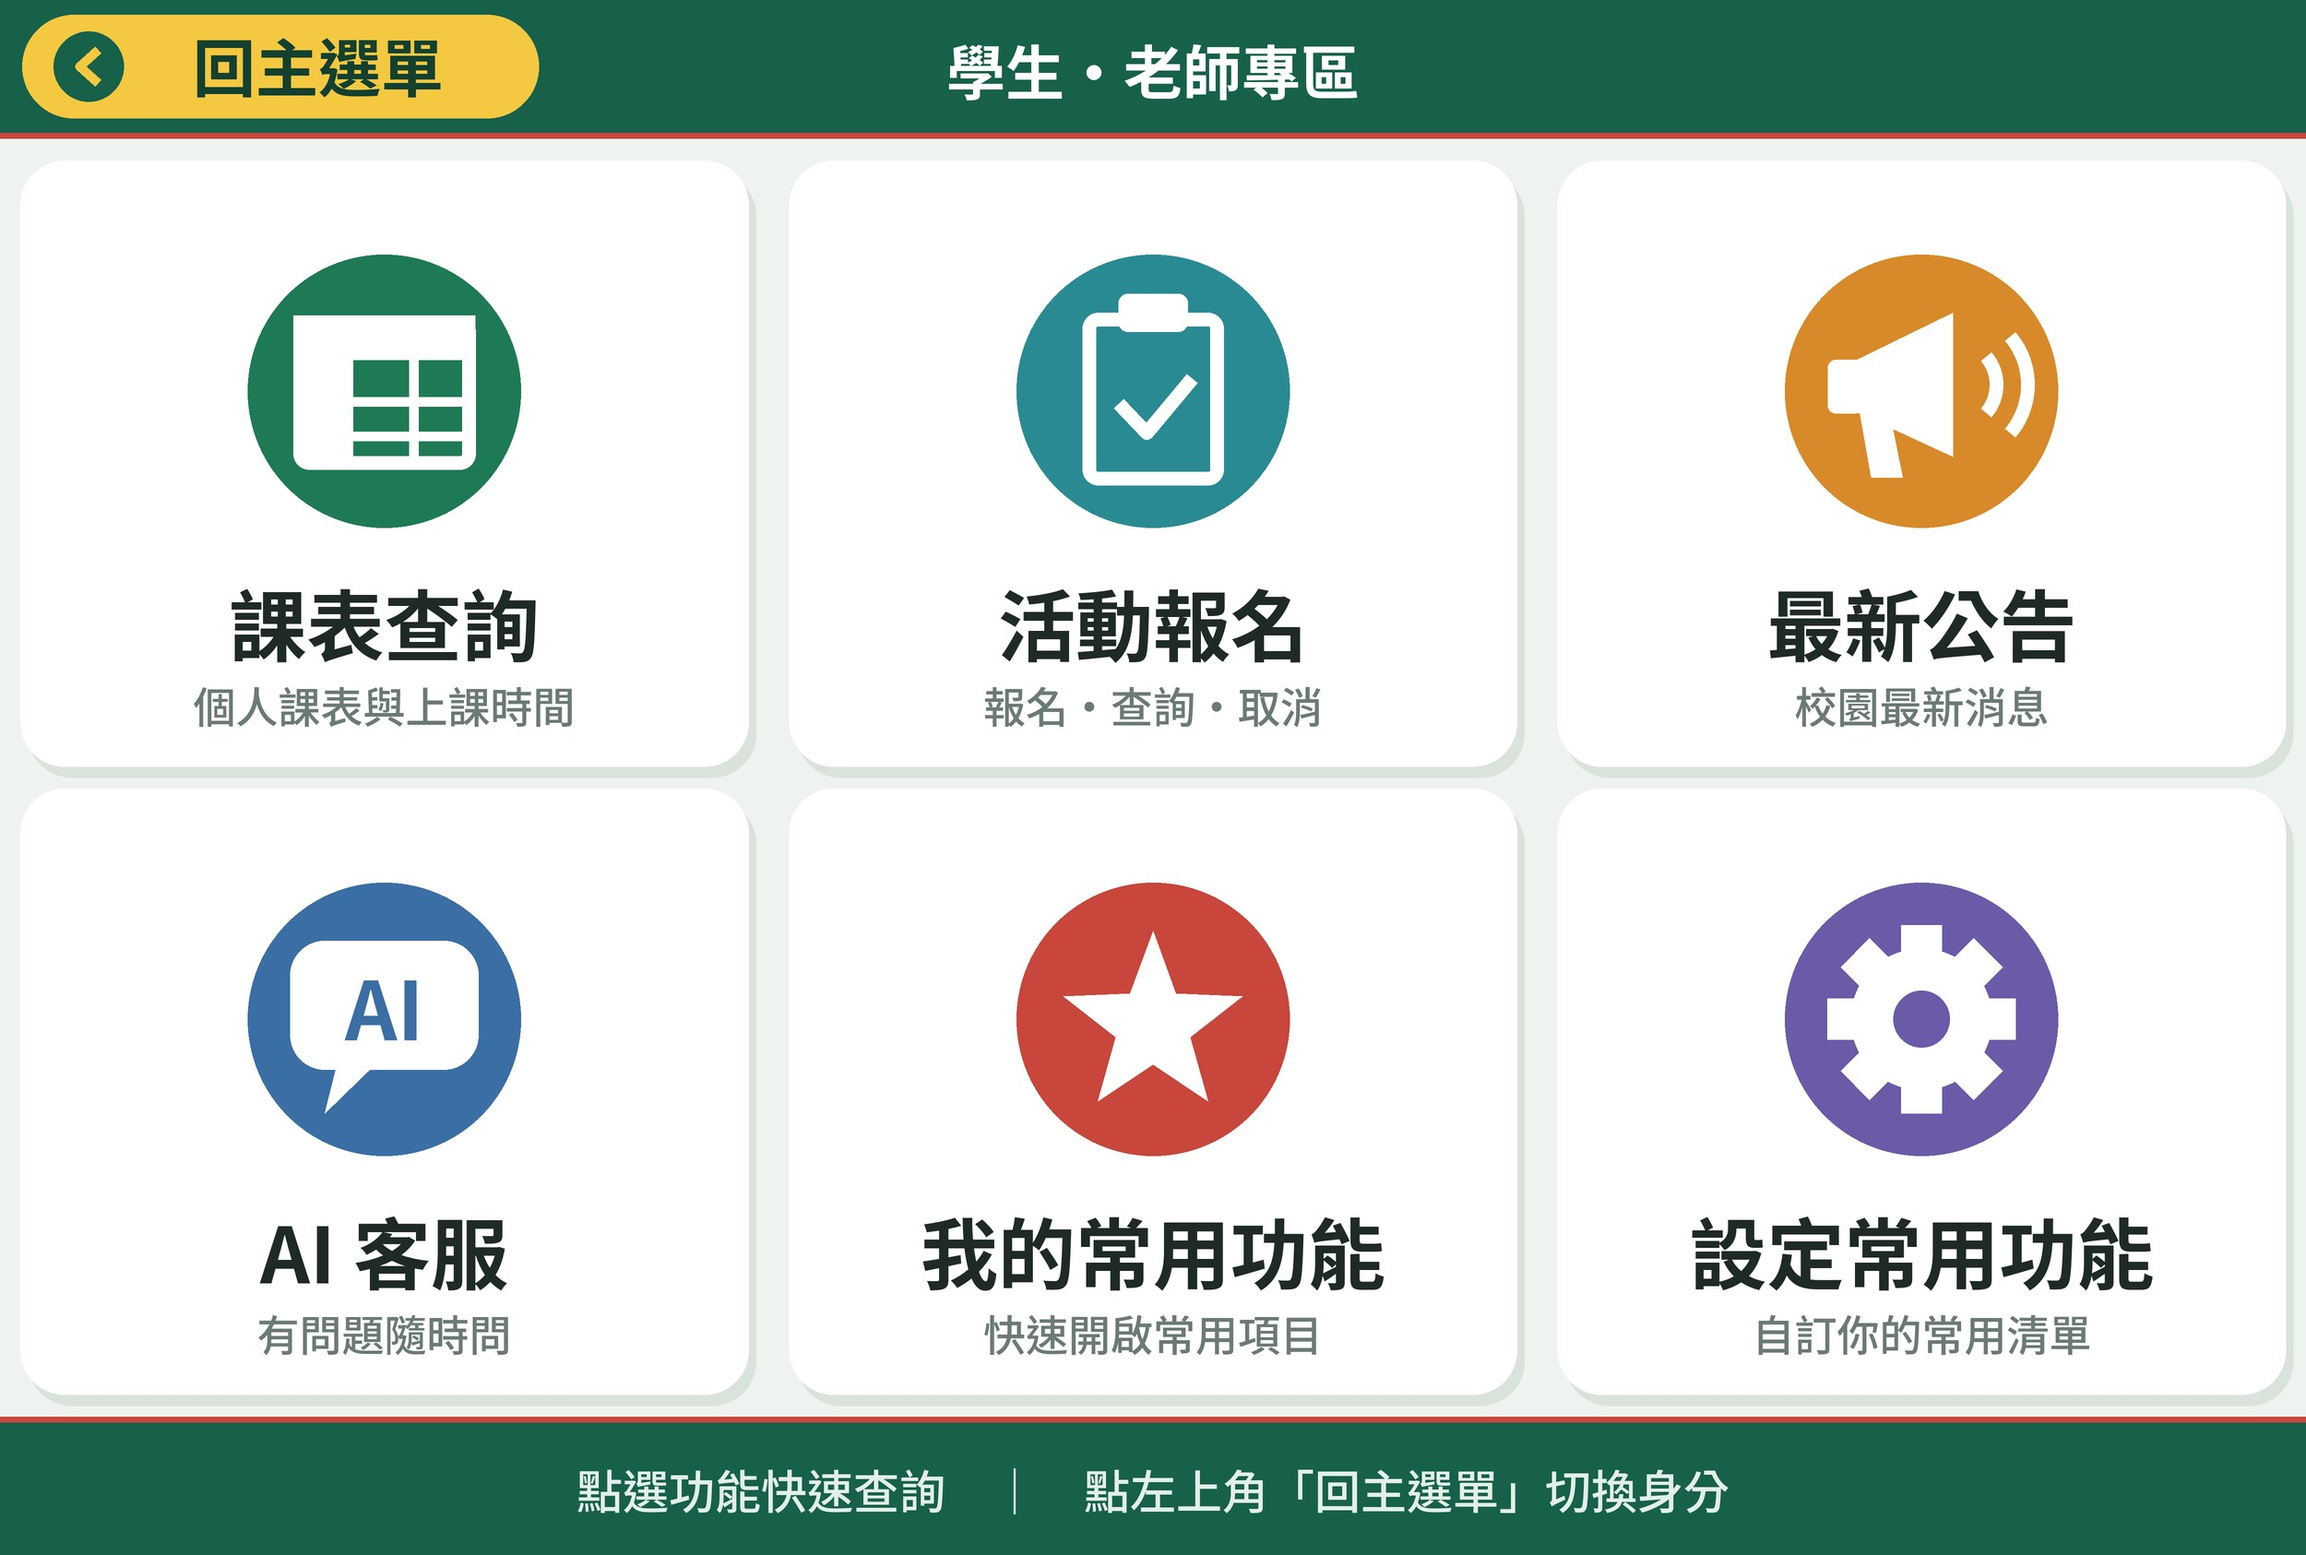
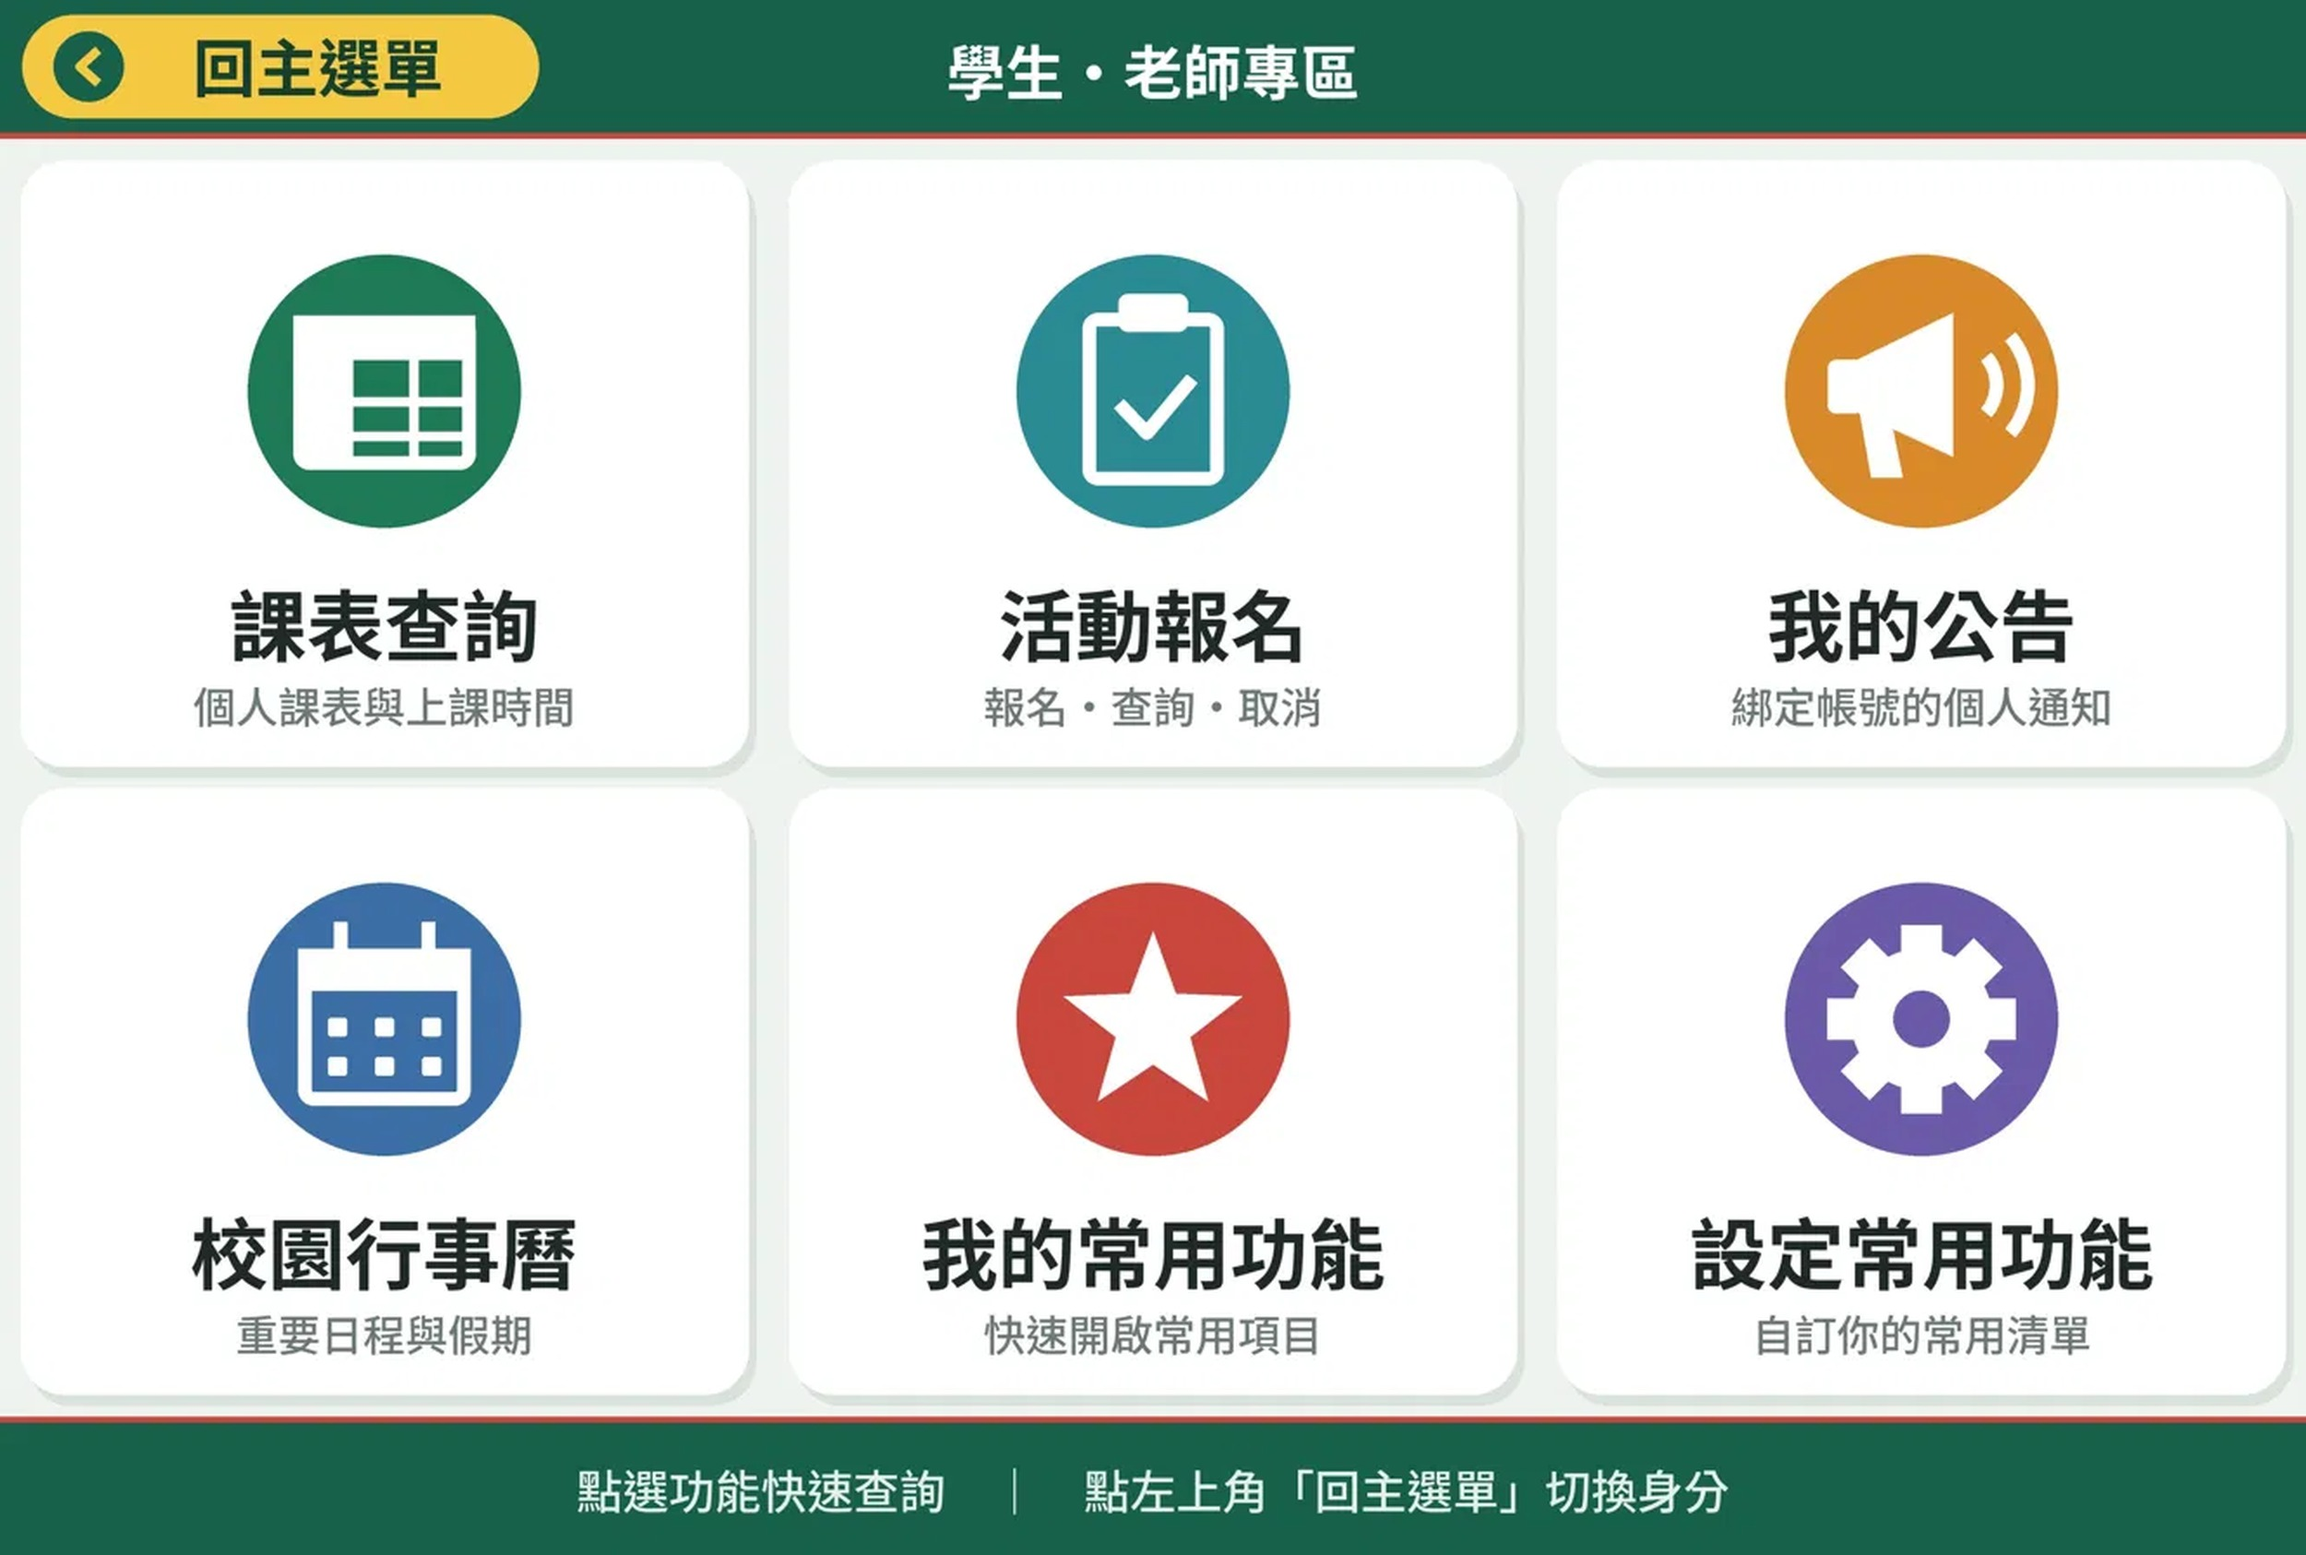
LINE 圖文選單：主選單/學生選單換新圖，校園行事曆改直接連結
- 主選單、學生選單換上新版設計圖（訪客選單圖沒變，跟上次推的是同一張）
- 學生選單圖原始檔只有 1329x896，長寬比跟正式尺寸 2500x1686 幾乎一致，
  用 PIL 等比放大後才上傳，避免跟 LINE 規格的尺寸要求不符
- 學生選單「校園行事曆」從送出關鍵字訊息改成直接連結網站 #calendar 分頁
  (不經過 LINE 官方帳號後台的關鍵字自動回覆)；訪客選單那格維持原本的關鍵字
  訊息方式不變
- 已重新套用到正式 LINE 帳號並確認無誤

diff --git a/tools/setup_richmenu.py b/tools/setup_richmenu.py
@@ -89,6 +89,7 @@ def build_menus():
     own_site = (os.getenv("PUBLIC_SITE_URL") or os.getenv("RENDER_EXTERNAL_URL") or "").rstrip("/")
     events_url = f"{own_site}/#events" if own_site else demo_home
     announcements_url = f"{own_site}/#announcements" if own_site else demo_home
+    calendar_url = f"{own_site}/#calendar" if own_site else demo_home
 
     main = {
         "size": {"width": W, "height": H}, "selected": True, "name": "ukn-main",
@@ -109,7 +110,7 @@ def build_menus():
             grid_cell(0, 0, uri_action("課表查詢", schedule_url)),
             grid_cell(0, 1, uri_action("活動報名", events_url)),
             grid_cell(0, 2, uri_action("我的公告", notices_url)),
-            grid_cell(1, 0, message_action("校園行事曆", "行事曆")),
+            grid_cell(1, 0, uri_action("校園行事曆", calendar_url)),
             grid_cell(1, 1, uri_action("我的常用功能", favorites_url)),
             grid_cell(1, 2, uri_action("設定常用功能", f"https://liff.line.me/{liff_id}")),
         ],
